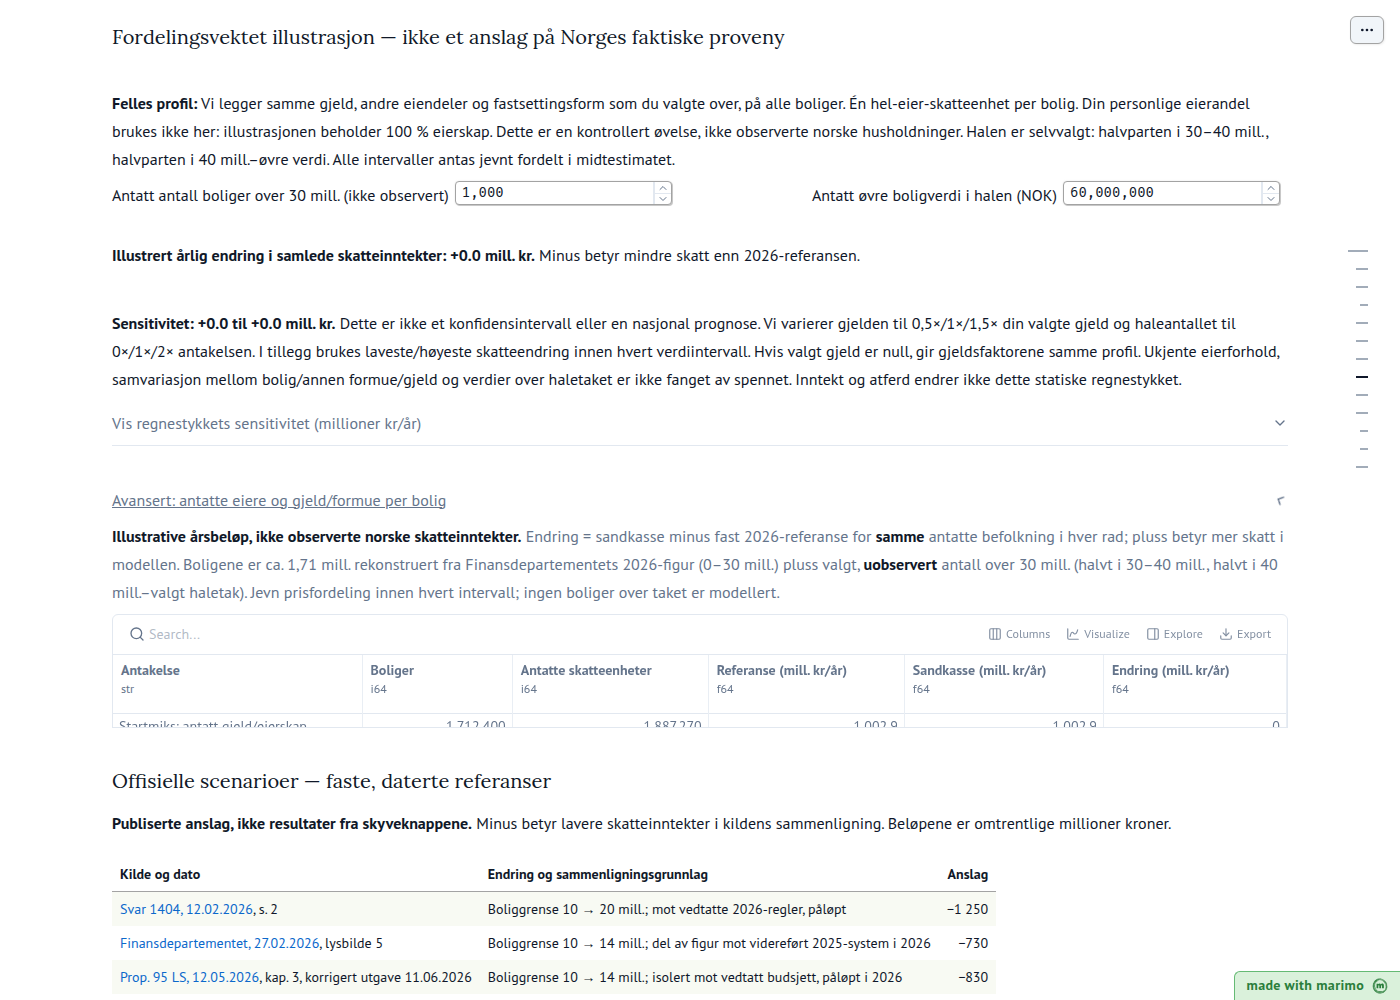
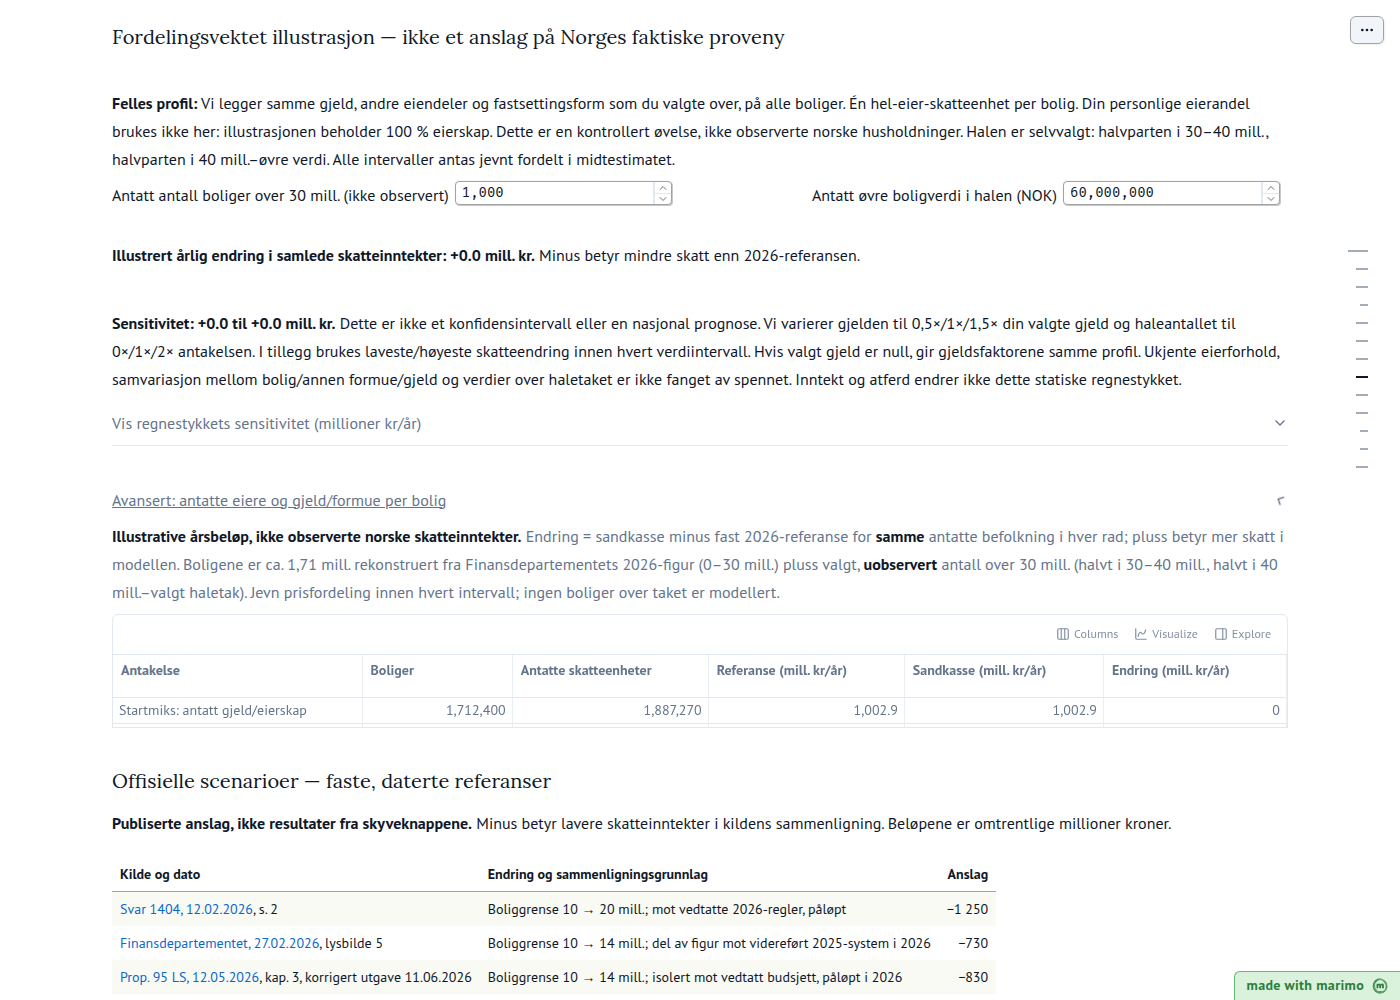
feat - wealth diagnostics: show all scenario rows and capture stable UI

diff --git a/scripts/check_wealth_browser.py b/scripts/check_wealth_browser.py
@@ -98,7 +98,10 @@ def main() -> None:
             expect(scenario_table).to_be_visible(timeout=120_000)
             expect(scenario_table).to_contain_text("1,712,400")
             expect(scenario_table).to_contain_text("1,887,270")
-            page.screenshot(path=str(root / "local_testing/wealth_t3c_desktop.png"))
+            page.screenshot(
+                path=str(root / "local_testing/wealth_t3c_desktop.png"),
+                animations="disabled",
+            )
             page.get_by_text(
                 "Vis valgt boligs verdsetting, skattebånd og marginal endring",
                 exact=True,
@@ -299,9 +302,15 @@ def main() -> None:
             assert_no_page_overflow(page)
             expect(scenario_table).to_be_visible()
             diagnostics.scroll_into_view_if_needed()
-            page.screenshot(path=str(root / "local_testing/wealth_t5_mobile.png"))
+            page.screenshot(
+                path=str(root / "local_testing/wealth_t5_mobile.png"),
+                animations="disabled",
+            )
             scenario_table.scroll_into_view_if_needed()
-            page.screenshot(path=str(root / "local_testing/wealth_t3c_mobile.png"))
+            page.screenshot(
+                path=str(root / "local_testing/wealth_t3c_mobile.png"),
+                animations="disabled",
+            )
             # A hidden/clipped hstack can leave page width normal while inputs
             # extend beyond the visible viewport. Check actual control bounds.
             for control in (debt, home, share, allowance, add, preset):

diff --git a/apps/building_taxation.py b/apps/building_taxation.py
@@ -781,6 +781,7 @@ def _(policy_inputs, reference, tail_count_ui, tail_upper_ui):
                     mo.ui.table(
                         pl.DataFrame(scenario_rows),
                         selection=None,
+                        pagination=False,
                         show_column_summaries=False,
                         show_data_types=False,
                         show_search=False,
